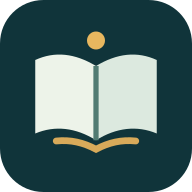
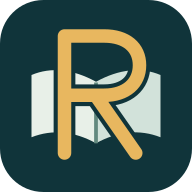
Refine Ritmo mark with R over open book

Changed region(s): [[0.1562, 0.125, 0.8438, 0.8438]]

diff --git a/README.md b/README.md
@@ -1,4 +1,4 @@
-<p align="center"><img src="web/icon.svg" alt="Marca do Ritmo: livro aberto com ponto âmbar de cadência" width="80"></p>
+<p align="center"><img src="web/icon.svg" alt="Marca do Ritmo: letra R âmbar sobre um livro aberto" width="80"></p>
 
 # Ritmo
 
@@ -25,7 +25,7 @@ A matéria e a tela escolhidas são lembradas ao reabrir. Uma sessão em andamen
 | Matérias, metas, foco, pausa, notas e evolução | **Disponível** | Interface e persistência SQLite, com correções de tempo registradas. |
 | Leitor de PDF, DOCX e TXT | **Disponível** | Extração de texto, busca, seleção e notas com referência ao trecho. |
 | Ambiente de estudo | **Validado no pacote Windows local** | Tema escuro ou claro, intensidade visual do aplicativo, cronômetro junto à leitura e ao tutor, som ambiente opcional e lembretes configuráveis. A [revalidação da PR #3](docs/qa-windows-pr3.md) cobre 85% de intensidade, rolagem nas três larguras e saída de áudio no dispositivo Realtek. |
-| Identidade visual | **Proposta em revisão** | Livro aberto com ponto de cadência; ícones SVG/PNG para web e Android, ICO para Windows e movimento discreto no cabeçalho. |
+| Identidade visual | **Proposta em revisão** | R âmbar sobre livro aberto; ícones SVG/PNG para web e Android, ICO para Windows e movimento discreto no cabeçalho. |
 | Backup e restauração manual | **Disponível** | ZIP com banco, materiais originais e configuração, quando houver. |
 | Tutor por matéria e sessão | **Disponível** | Dúvidas, aula guiada, histórico, busca FTS5 e referências aos materiais marcados. |
 | IA local | **Disponível** | Qwen3 GGUF servido por llama.cpp no computador, instalado por ação explícita. |
@@ -43,7 +43,7 @@ Em **Configurações → Ambiente de estudo**, escolha o tema, a intensidade vis
 
 ### Marca e plataformas
 
-A marca representa o conteúdo aberto e a constância dos blocos de estudo. O ícone do executável e do atalho Windows é gerado a partir de `web/icon-512.png` por `scripts/make_icon.py`. O manifesto oferece PNGs normais e versões com área segura para recorte no Android. Os SVGs são as fontes vetoriais; ao alterá-los, exporte novamente os PNGs de 192 e 512 px antes de gerar o ICO. Os arquivos têm fundo sólido e não dependem de fontes instaladas.
+A letra R identifica o Ritmo; o livro centralizado atrás representa o material de estudo. O ícone do executável e do atalho Windows é gerado a partir de `web/icon-512.png` por `scripts/make_icon.py`. O manifesto oferece PNGs normais e versões com área segura para recorte no Android. Os SVGs são as fontes vetoriais; ao alterá-los, exporte novamente os PNGs de 192 e 512 px antes de gerar o ICO. Os arquivos têm fundo sólido e não dependem de fontes instaladas.
 
 No cabeçalho, a marca leva ao Início, reage a foco, ponteiro e toque e mostra um anel discreto durante o estudo. A preferência de movimento reduzido desliga essas animações. Os ícones do sistema operacional permanecem estáticos. O manifesto prepara os ícones de uma instalação web no Android, mas **não constitui um aplicativo Android nativo nem valida a instalação no aparelho**.
 
